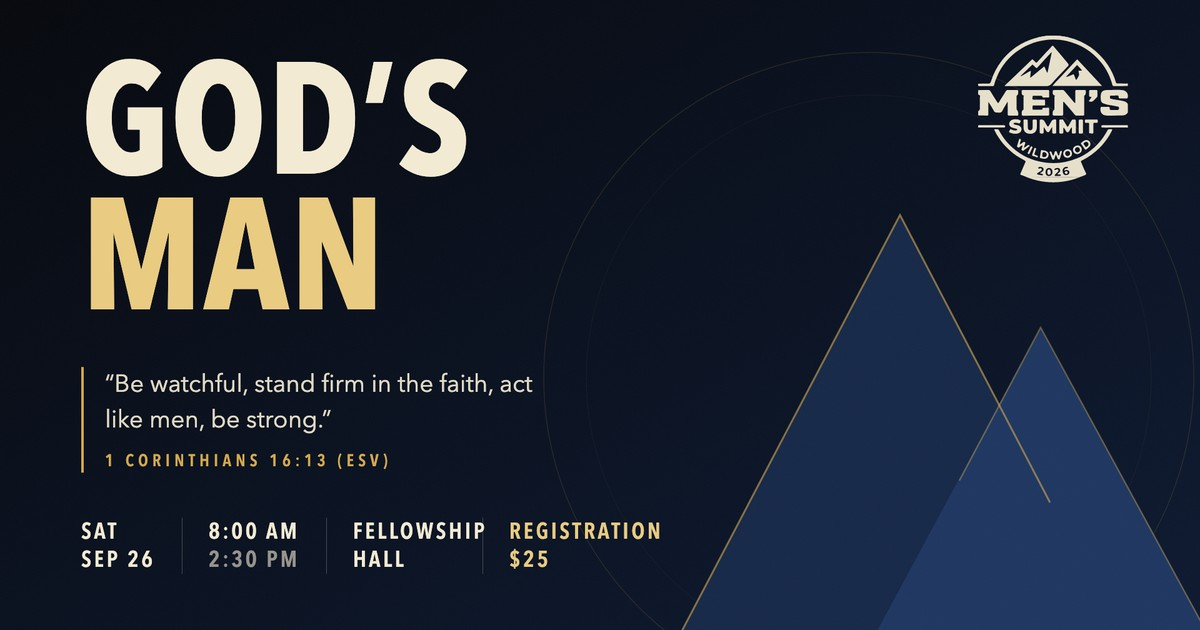
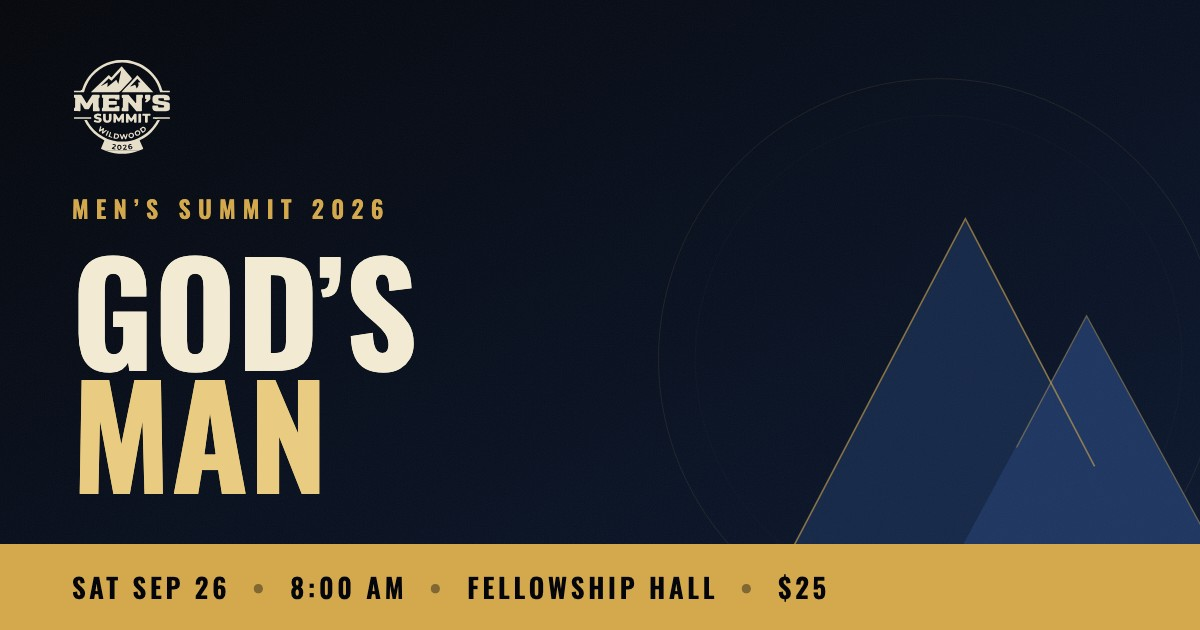
Redesign link preview card for legibility at preview size
The card was the campaign TV slide cropped to 1200x630. TV art is
built to be read across a room, so at the ~480px a link preview
actually renders in iMessage or Slack the four-column details row
came out around 9px tall and turned to mush.

Rebuild it around the layout conventions common to well-made OG
images: small logo pinned top-left, one hero headline dominating
the frame, the mountain motif anchoring the right edge, and no fine
print competing with it. Event details move into a solid gold bar
across the bottom, which gives them their own high-contrast band
instead of shrinking them into the artwork, and echoes the Register
button so the preview and the landing page read as one piece.

Palette, type, and motif are unchanged from the campaign.

Adds og-image.source.html, the artboard the JPG is rendered from,
so the card can be regenerated if event details change before
September. It sits in the same folder, so deleting the page after
the event is still one folder.

diff --git a/public/mens-summit-2026/og-image.source.html b/public/mens-summit-2026/og-image.source.html
@@ -1,0 +1,142 @@
+<!doctype html>
+<!--
+	Source artboard for og-image.jpg (the link-preview card).
+	Edit this, then re-render at exactly 1200x630 and save over og-image.jpg:
+
+	  npm run dev
+	  "/Applications/Google Chrome.app/Contents/MacOS/Google Chrome" --headless --disable-gpu \
+	    --hide-scrollbars --force-device-scale-factor=1 --window-size=1200,630 \
+	    --screenshot=og.png http://localhost:3000/mens-summit-2026/og-image.source.html
+	  sips -s format jpeg -s formatOptions 90 og.png --out public/mens-summit-2026/og-image.jpg
+-->
+<html>
+	<head>
+		<meta charset="utf-8" />
+		<link rel="preconnect" href="https://fonts.googleapis.com" />
+		<link rel="preconnect" href="https://fonts.gstatic.com" crossorigin="anonymous" />
+		<link
+			href="https://fonts.googleapis.com/css2?family=Oswald:wght@400;500;600;700&display=swap"
+			rel="stylesheet"
+		/>
+		<style>
+			* {
+				margin: 0;
+				padding: 0;
+				box-sizing: border-box;
+			}
+			body {
+				background: #000;
+			}
+			.card {
+				--gold: #d4a94e;
+				--gold-light: #e9cb82;
+				--cream: #f2ead3;
+				--navy-dark: #04060b;
+				position: relative;
+				width: 1200px;
+				height: 630px;
+				overflow: hidden;
+				background: linear-gradient(150deg, #04060b 0%, #081020 55%, #0c1830 100%);
+				font-family: 'Oswald', 'Avenir Next Condensed', 'Arial Narrow', sans-serif;
+			}
+			.grain {
+				position: absolute;
+				inset: 0;
+				opacity: 0.05;
+				pointer-events: none;
[1 lines of base64/hex data omitted]
+			}
+			.motif {
+				position: absolute;
+				right: -110px;
+				bottom: -30px;
+				width: 700px;
+				pointer-events: none;
+			}
+			.logo {
+				position: absolute;
+				top: 58px;
+				left: 72px;
+				width: 100px;
+				opacity: 0.95;
+			}
+			.content {
+				position: absolute;
+				left: 72px;
+				top: 190px;
+			}
+			.eyebrow {
+				margin-bottom: 20px;
+				font-weight: 600;
+				font-size: 24px;
+				letter-spacing: 0.3em;
+				text-transform: uppercase;
+				color: var(--gold);
+			}
+			.headline {
+				font-weight: 700;
+				font-size: 140px;
+				line-height: 0.88;
+				letter-spacing: 0.005em;
+				text-transform: uppercase;
+			}
+			.headline .l1 {
+				display: block;
+				color: var(--cream);
+			}
+			.headline .l2 {
+				display: block;
+				color: var(--gold-light);
+			}
+			.bar {
+				position: absolute;
+				left: 0;
+				right: 0;
+				bottom: 0;
+				height: 86px;
+				padding: 0 72px;
+				display: flex;
+				align-items: center;
+				gap: 22px;
+				background: var(--gold);
+				font-weight: 600;
+				font-size: 27px;
+				letter-spacing: 0.14em;
+				text-transform: uppercase;
+				color: var(--navy-dark);
+			}
+			.bar .sep {
+				opacity: 0.4;
+			}
+		</style>
+	</head>
+	<body>
+		<div class="card">
+			<svg class="motif" viewBox="0 0 1300 1150" fill="none">
+				<circle cx="610" cy="590" r="520" stroke="#D4A94E" stroke-width="1.5" opacity="0.14" />
+				<circle cx="610" cy="590" r="452" stroke="#D4A94E" stroke-width="1" opacity="0.07" />
+				<polygon points="230,1150 660,330 1090,1150" fill="#152747" />
+				<polygon points="540,1150 885,510 1235,1150" fill="#1D3560" />
+				<polyline points="230,1150 660,330 900,790" stroke="#D4A94E" stroke-width="3" opacity="0.6" />
+				<polyline points="755,755 885,510 1201,1090" stroke="#D4A94E" stroke-width="2.5" opacity="0.4" />
+			</svg>
+			<div class="grain"></div>
+			<img class="logo" src="./logo_cream.svg" alt="" />
+			<div class="content">
+				<div class="eyebrow">Men&rsquo;s Summit 2026</div>
+				<div class="headline">
+					<span class="l1">God&rsquo;s</span><span class="l2">Man</span>
+				</div>
+			</div>
+			<div class="bar">
+				<span>Sat Sep 26</span>
+				<span class="sep">&bull;</span>
+				<span>8:00 AM</span>
+				<span class="sep">&bull;</span>
+				<span>Fellowship Hall</span>
+				<span class="sep">&bull;</span>
+				<span>$25</span>
+			</div>
+		</div>
+	</body>
+</html>
